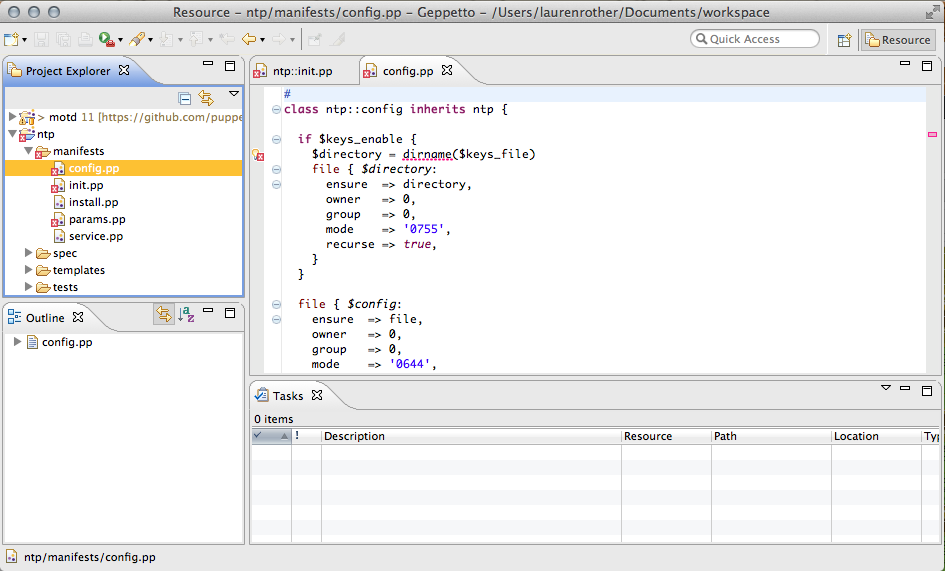
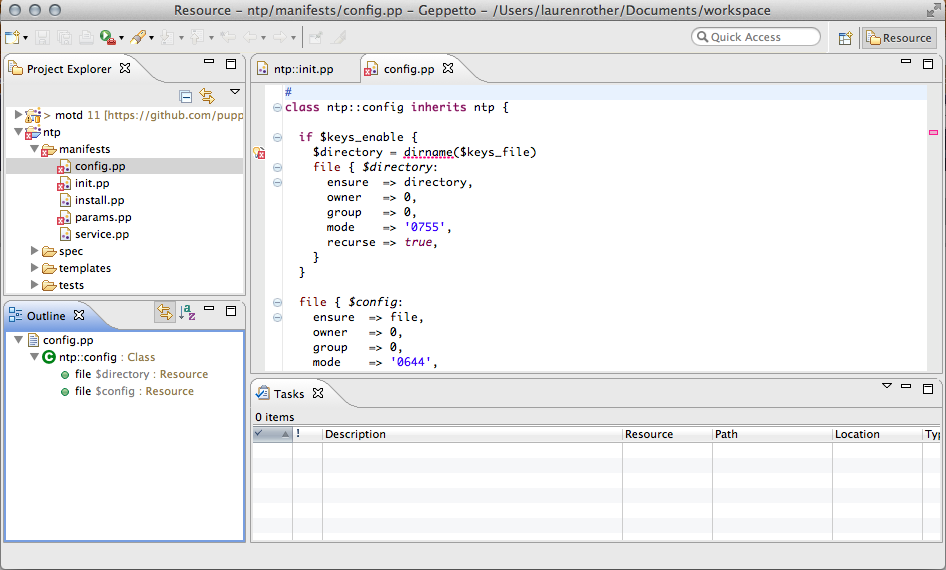
updates to overview section

Changed region(s): [[0.0, 0.0, 1.0, 1.0], [0.982, 0.2088, 1.0, 0.2386], [0.3069, 0.4474, 0.3376, 0.4772]]

diff --git a/source/geppetto/4.0/index.md b/source/geppetto/4.0/index.md
@@ -21,11 +21,17 @@ Geppetto is packaged so it can be downloaded and used immediately. It contains a
 
 ![IDE_overview][IDE_overview]
 
-Here's how Geppetto looks with a fresh or first-time install. Your version might be a little different, either because you added Geppetto to an existing install of Eclipse that you'd already customized, or because you changed some of the panes around when you first installed. If your panes are arranged a little differently, you'll still get all the same functionality.
+Here's how Geppetto looks with a couple of projects added to a fresh or first-time install. Your version might be a little different, either because you added Geppetto to an existing install of Eclipse that you'd already customized, or because you changed some of the views around when you first installed. If your views are arranged a little differently, you'll still get all the same functionality.
 
-In this image, you see some of the most common work areas:
+In this image, you see some of the most common work areas (this description is by no means comprehensive):
 
-The **Project Explorer** enables you to easily navigate around in your project's file structure. 
+The **Project Explorer** enables you to easily navigate around in your Puppet project's file structure. 
+
+As its name indicates, the **editor** is where you edit your code. Geppetto takes advantage of Eclipse editing capabilities, like syntax highlighting, content assistance, and error tracing and debugging for your Puppet code.
+
+The **Outline** view shows a tree version of the code you're editing. It's useful for quickly finding the elements of your classes.
+
+You can use the **Tasks** view to create your own tasks and to automatically add tasks from comments in code.   
 
 
 ##Installing Geppetto
